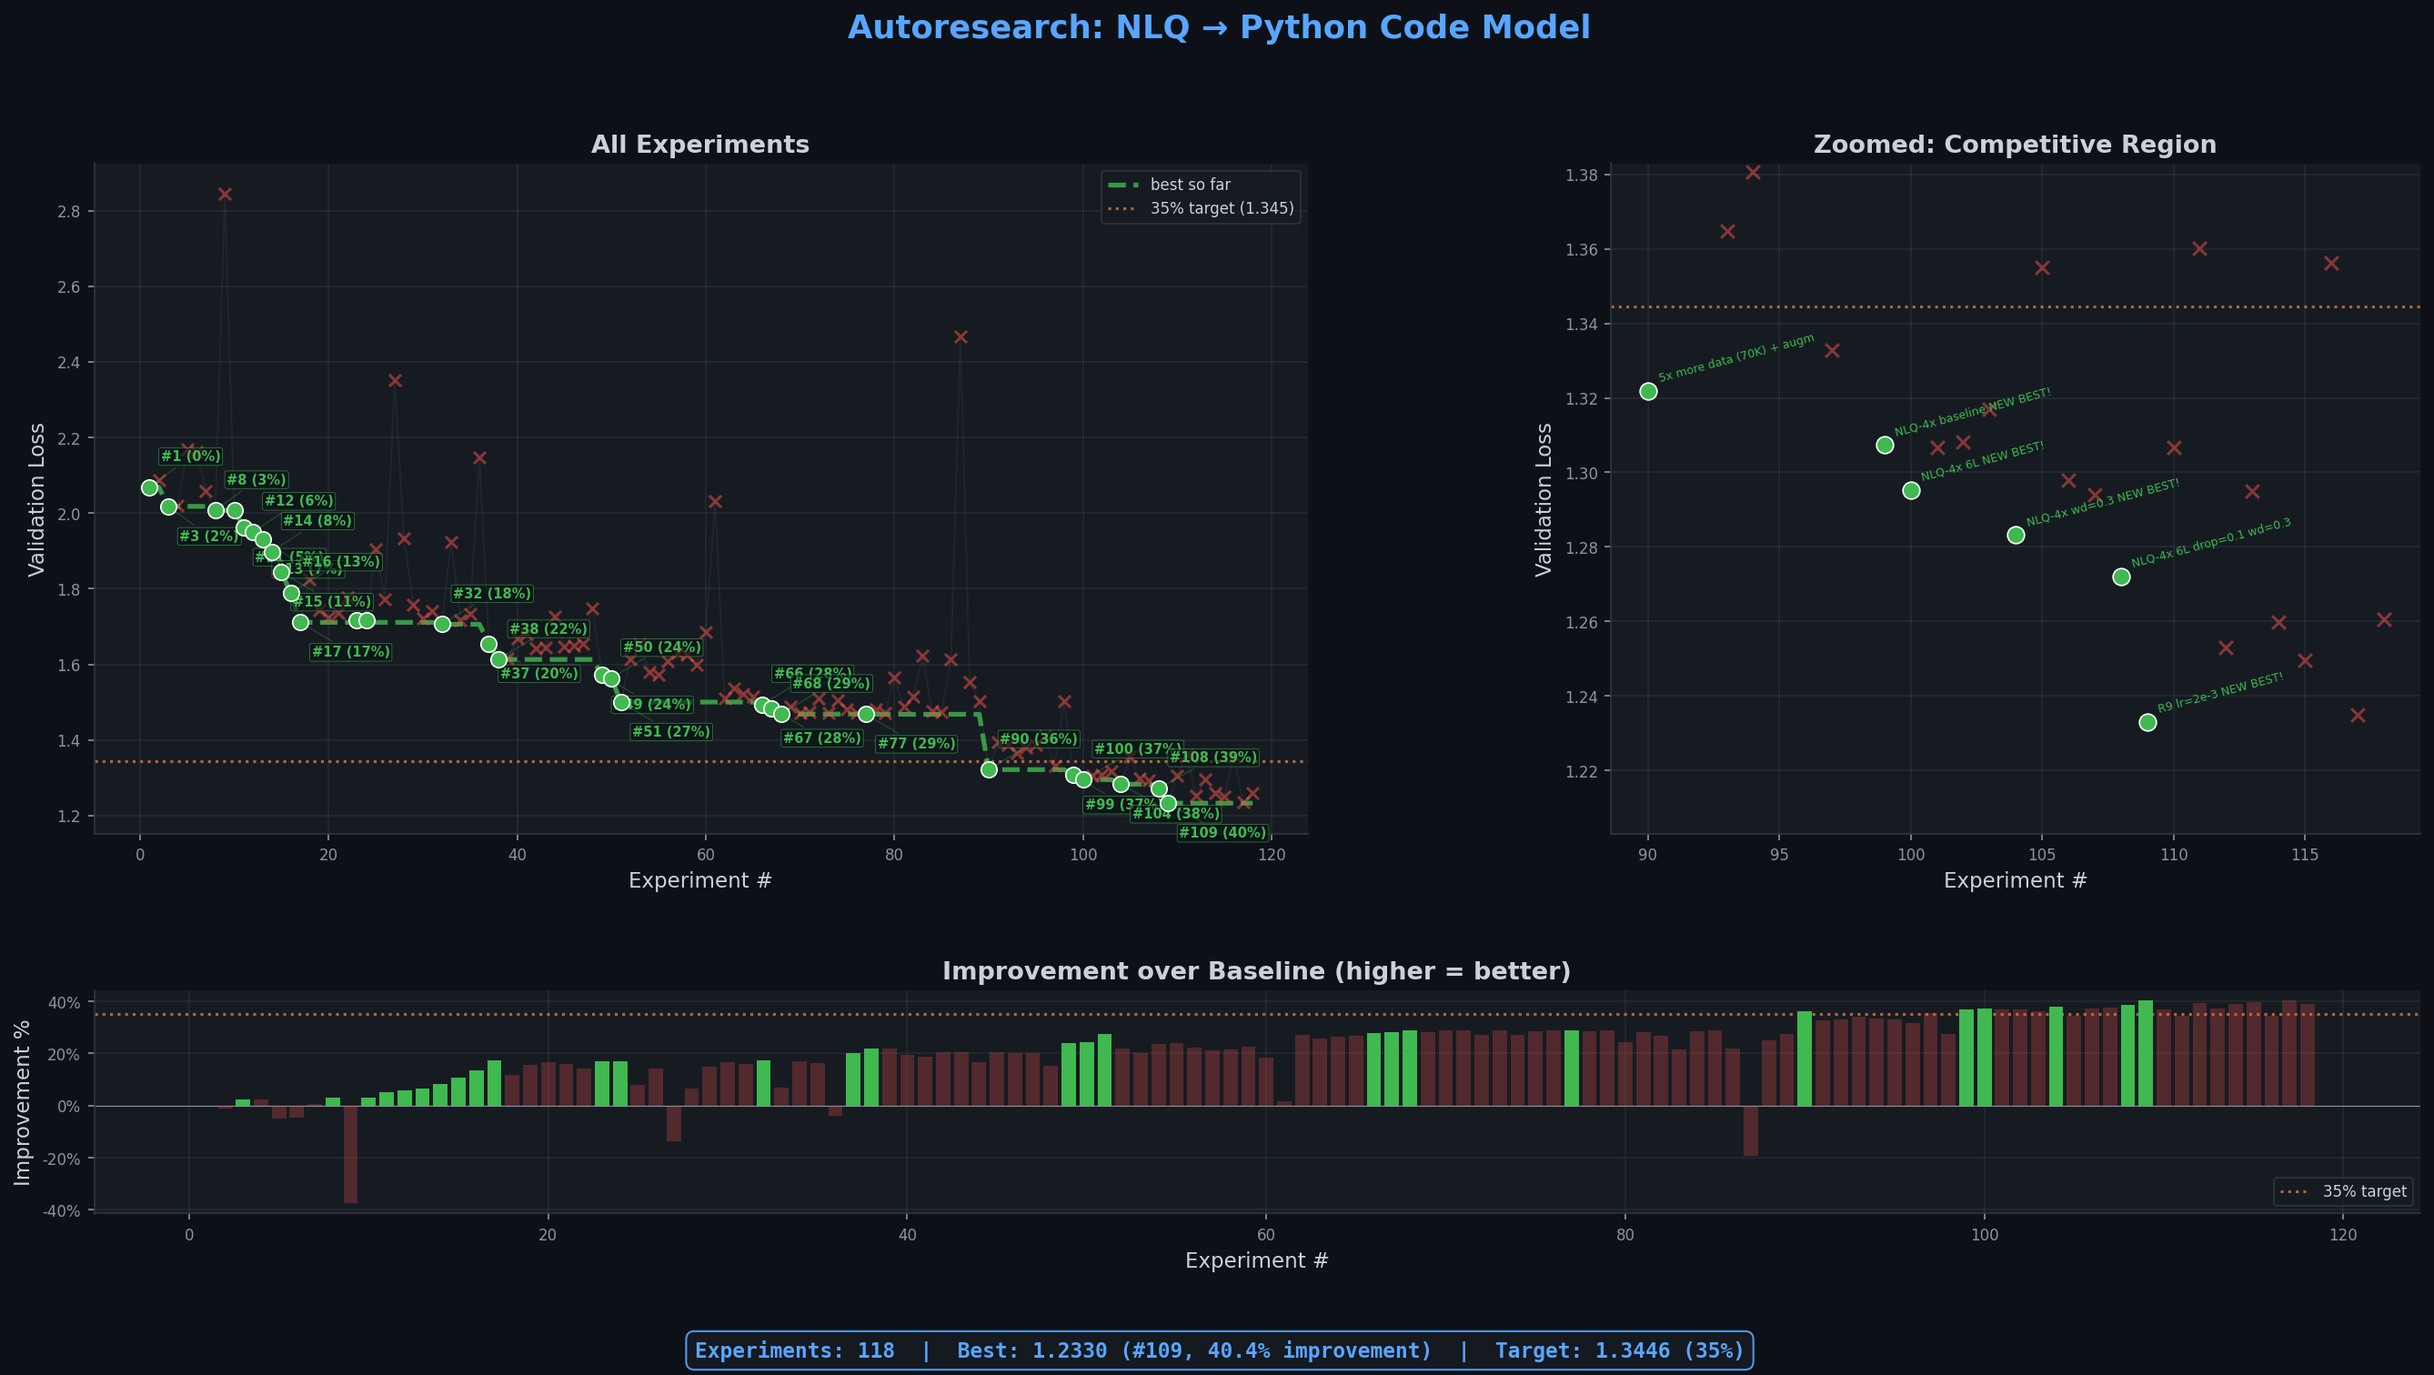
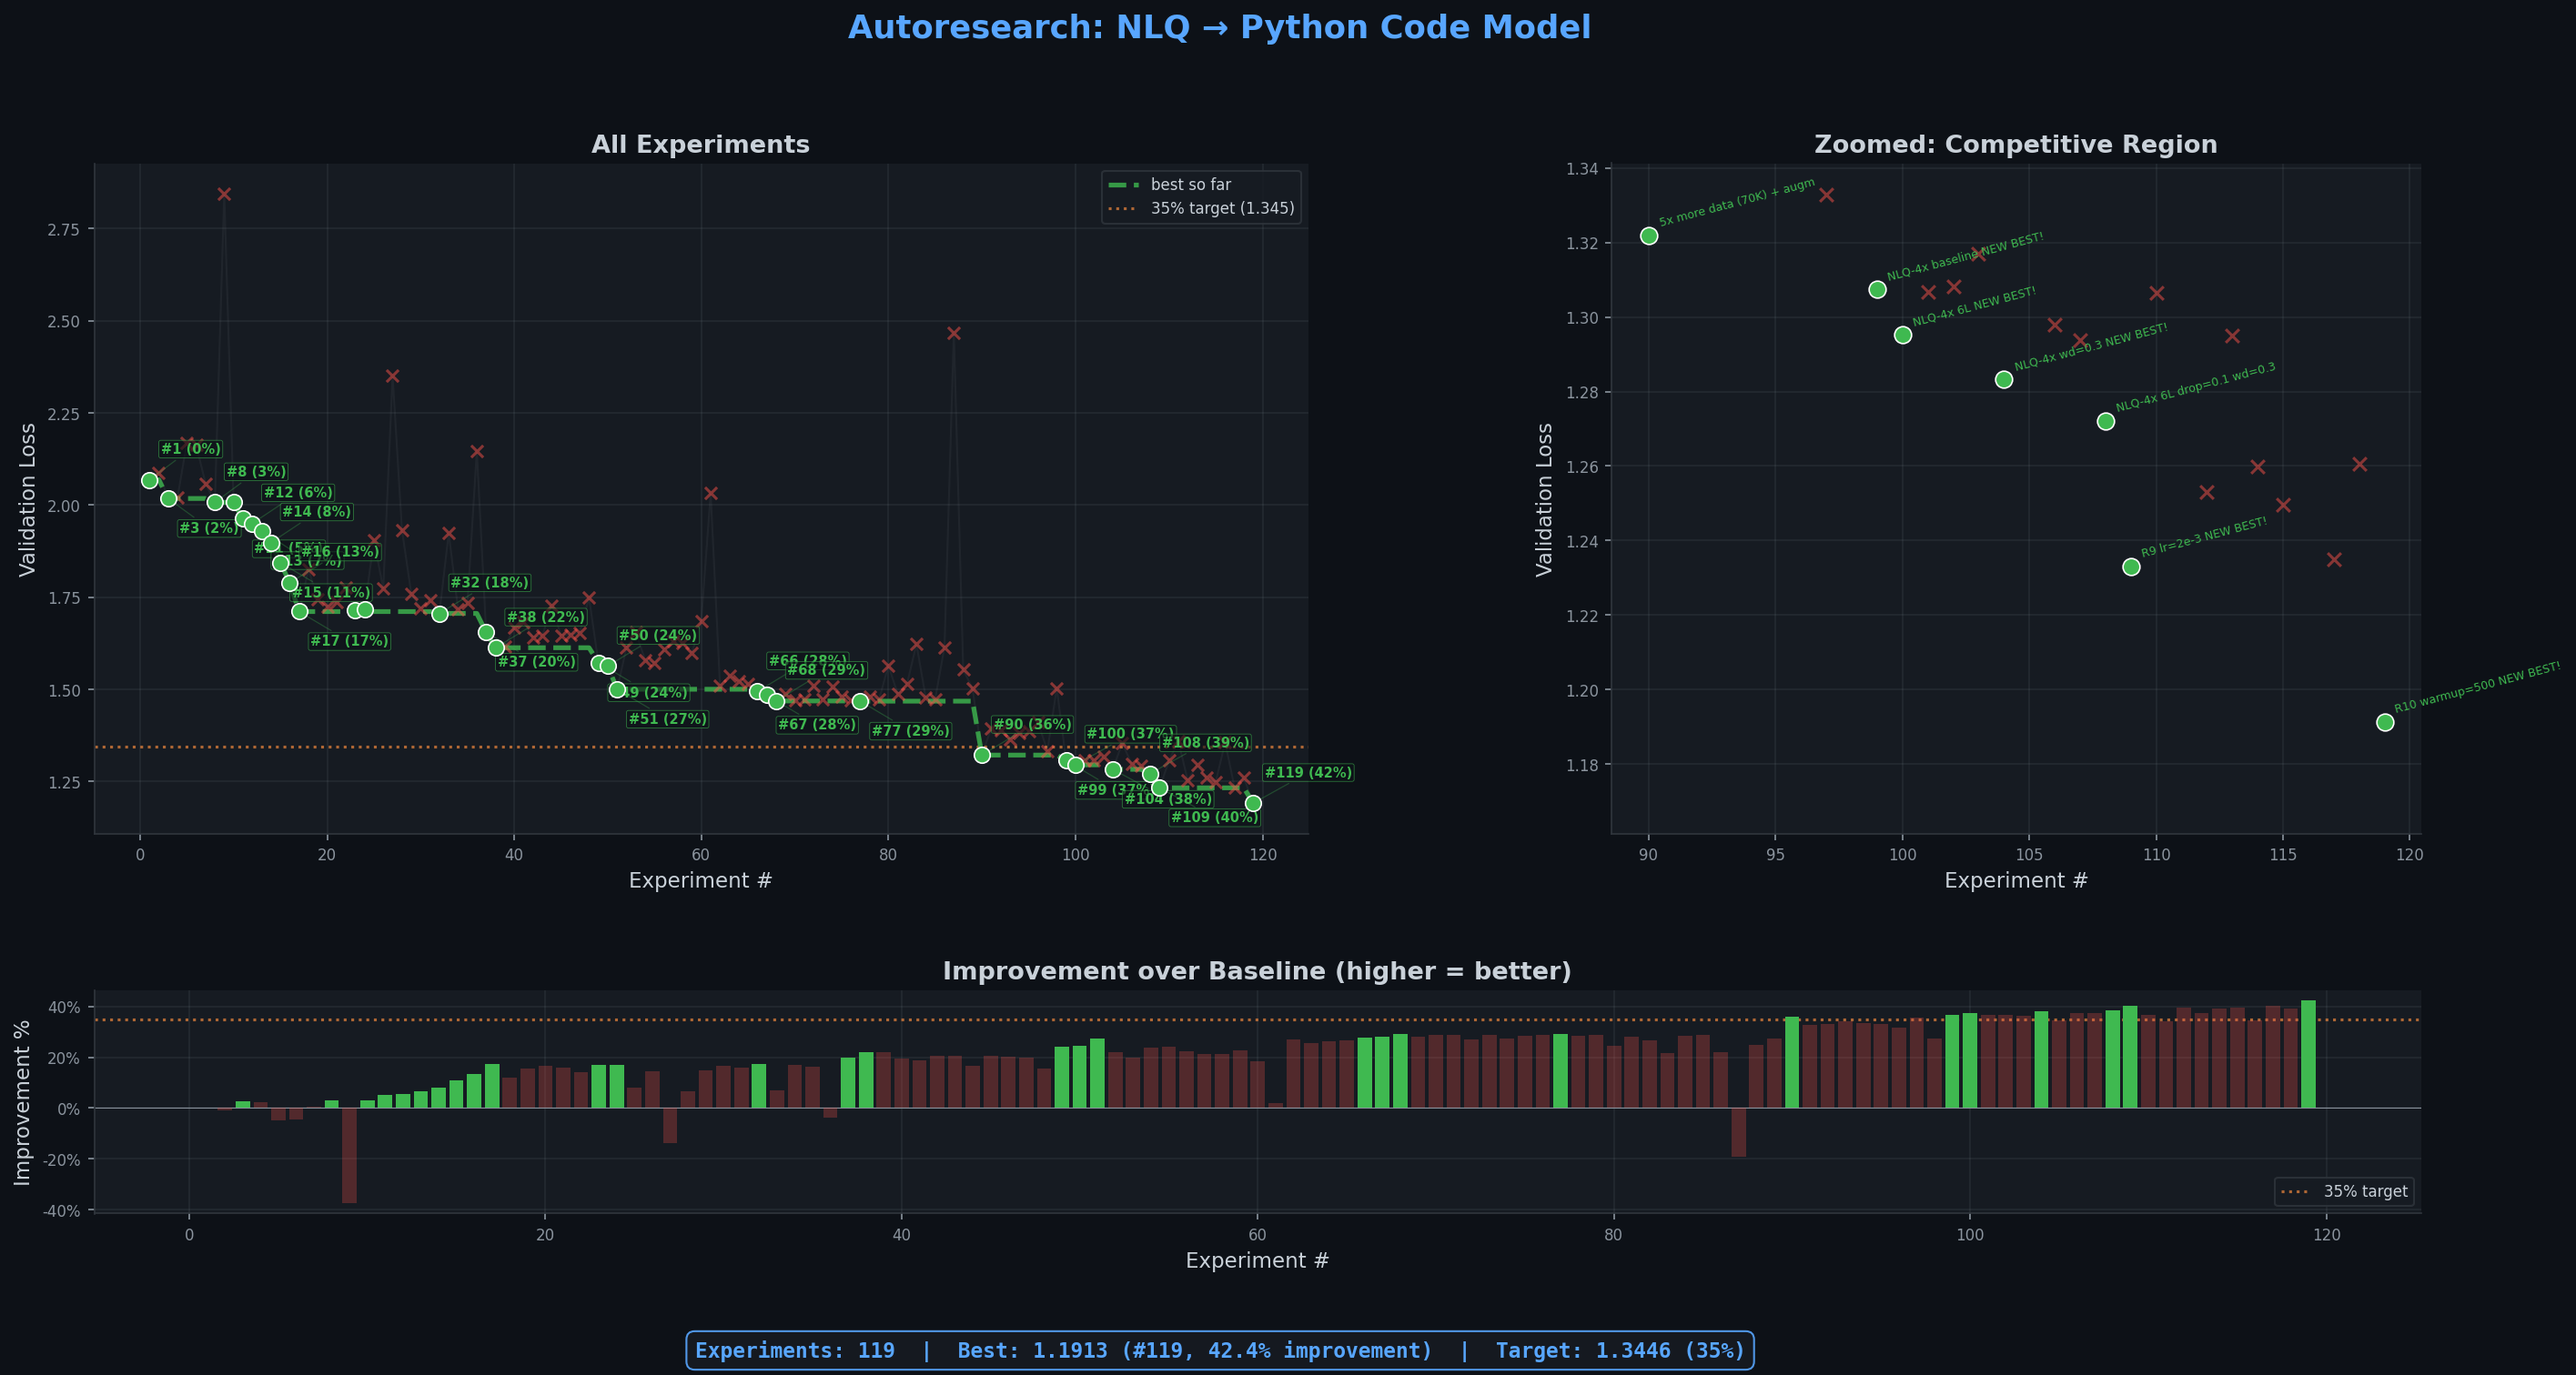
exp 119: R10 warmup=500 NEW BEST! (val=1.1913, 42.4%)

diff --git a/train_mlx.py b/train_mlx.py
@@ -47,9 +47,9 @@ DROPOUT = 0.1
 
 # Training
 BATCH_SIZE = 8
-LEARNING_RATE = 3e-3
+LEARNING_RATE = 2e-3
 WEIGHT_DECAY = 0.3
-WARMUP_STEPS = 300
+WARMUP_STEPS = 500
 TIME_BUDGET = 600
 GRAD_CLIP = 1.0
 DECAY_STEPS = 8000
